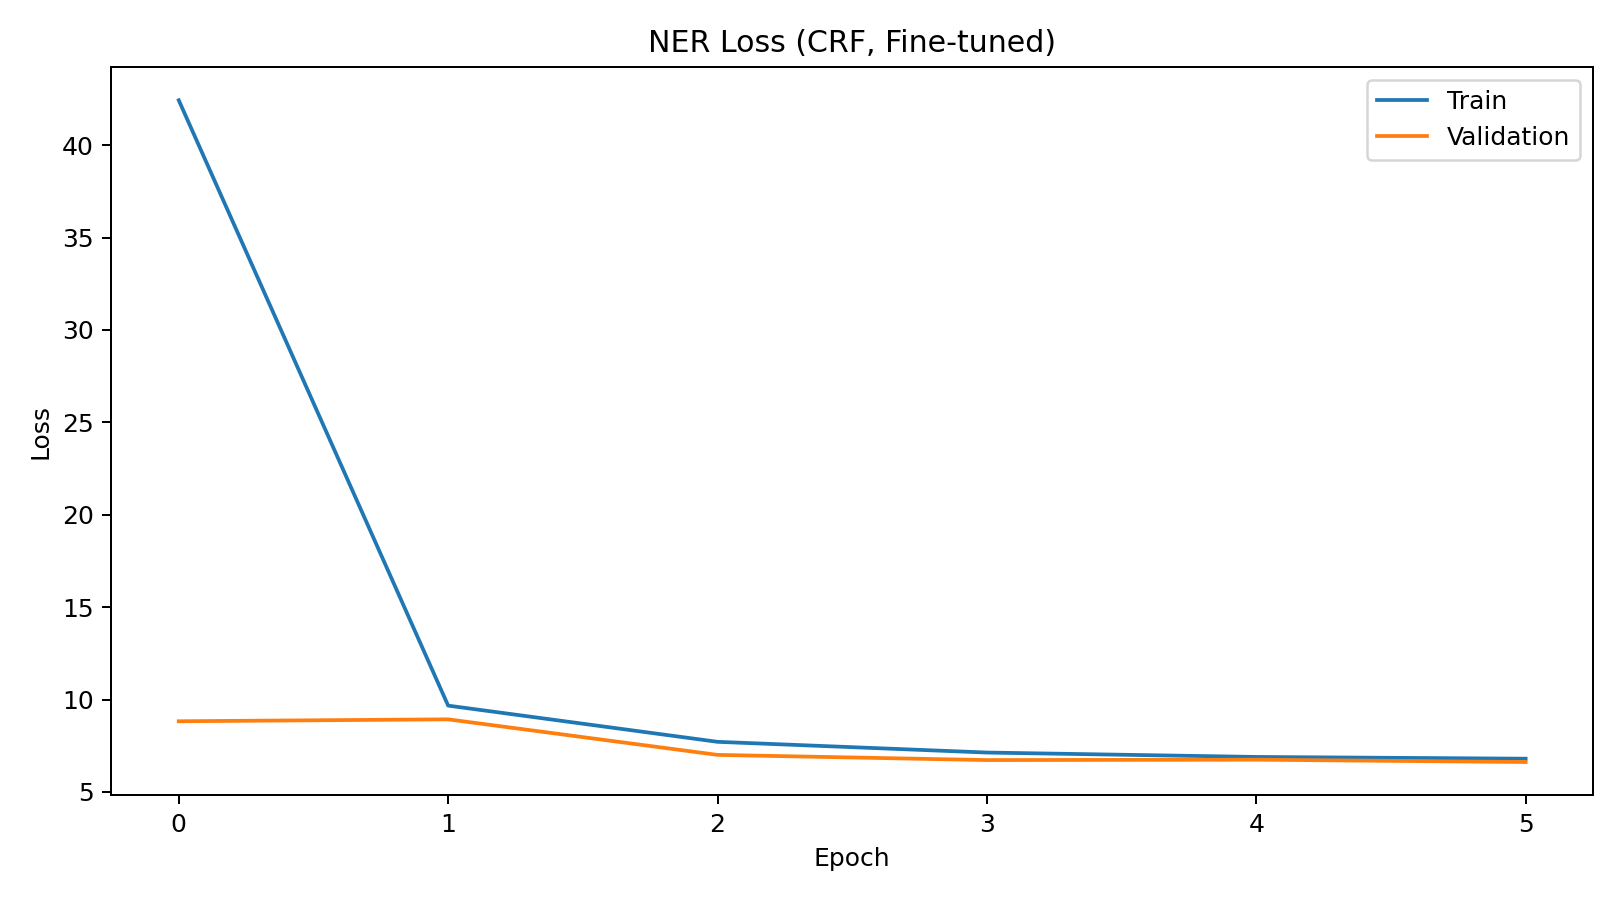
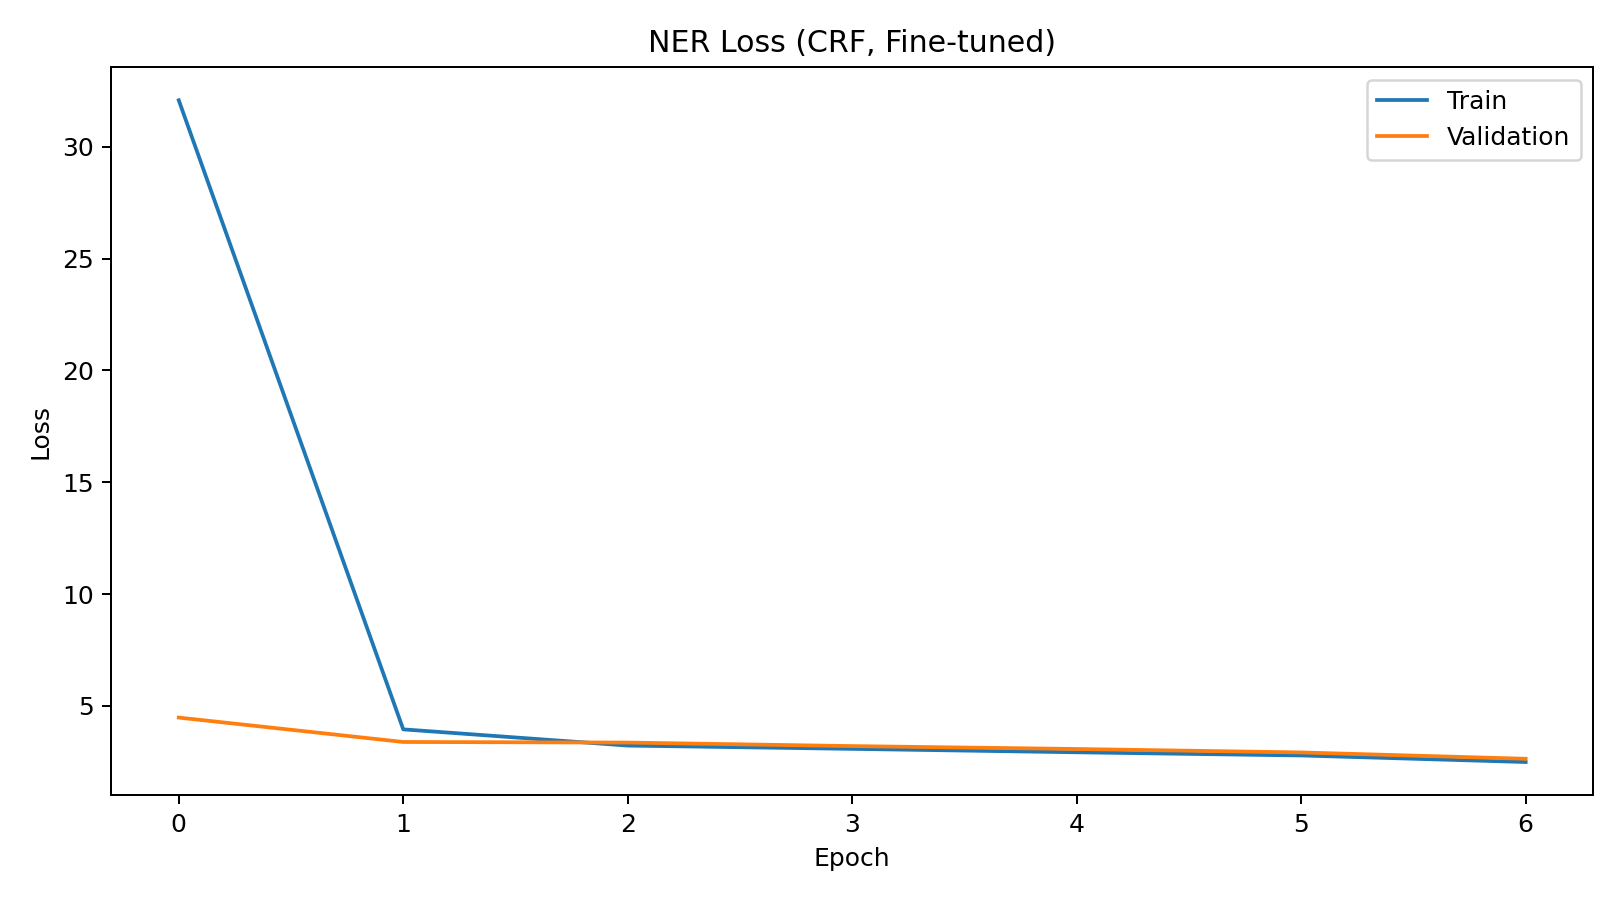
part2: stabilize ner training and refresh reports

diff --git a/scripts/part2_sequence_labeling.py b/scripts/part2_sequence_labeling.py
@@ -573,6 +573,41 @@ def encode_rows(rows, word2idx, label2idx, label_key):
     return out
 
 
+def compute_ner_class_weights(encoded_rows, num_labels):
+    counts = np.ones(num_labels, dtype=np.float32)
+    for row in encoded_rows:
+        for y in row["labels"]:
+            counts[y] += 1.0
+
+    # Inverse-frequency weighting counters severe O-tag imbalance in gazetteer labels.
+    weights = np.sum(counts) / counts
+    weights = np.clip(weights, 1.0, 100.0)
+    weights = weights / np.mean(weights)
+    return torch.tensor(weights, dtype=torch.float32)
+
+
+def build_token_ner_bias(word2idx, ner_label2idx, bias_value=2.5):
+    bias = np.zeros((len(word2idx), len(ner_label2idx)), dtype=np.float32)
+    o_idx = ner_label2idx["O"]
+
+    def apply_bias(gazetteer, tag_name):
+        t_idx = ner_label2idx[tag_name]
+        for token in gazetteer:
+            if len(token) < 3:
+                continue
+            idx = word2idx.get(token)
+            if idx is None:
+                continue
+            bias[idx, t_idx] = max(bias[idx, t_idx], bias_value)
+            bias[idx, o_idx] = min(bias[idx, o_idx], -0.3 * bias_value)
+
+    apply_bias(PER_GAZ, "B-PER")
+    apply_bias(LOC_GAZ, "B-LOC")
+    apply_bias(ORG_GAZ, "B-ORG")
+    apply_bias(MISC_GAZ, "B-MISC")
+    return bias
+
+
 class SeqDataset(Dataset):
     def __init__(self, rows):
         self.rows = rows
@@ -742,6 +777,7 @@ class NERTagger(nn.Module):
         dropout=0.5,
         bidirectional=True,
         use_crf=True,
+        token_bias=None,
     ):
         super().__init__()
         self.use_crf = use_crf
@@ -757,9 +793,16 @@ class NERTagger(nn.Module):
         )
         if use_crf:
             self.crf = CRF(num_labels)
+        if token_bias is not None:
+            self.register_buffer("token_bias", torch.tensor(token_bias, dtype=torch.float32))
+        else:
+            self.token_bias = None
 
     def forward(self, words, lengths):
-        return self.encoder(words, lengths)
+        emissions = self.encoder(words, lengths)
+        if self.token_bias is not None:
+            emissions = emissions + self.token_bias[words]
+        return emissions
 
 
 def plot_curves(train_losses, val_losses, title, path):
@@ -911,21 +954,11 @@ def evaluate_ner(model, loader, idx2label, pad_label_idx, use_crf, device=None):
             emissions = model(words, lengths)
             if use_crf:
                 pred_paths = model.crf.decode(emissions, mask)
-
-                all_o = True
-                for path in pred_paths:
-                    for p in path:
-                        if p != 0:
-                            all_o = False
-                            break
-                    if not all_o:
-                        break
-
-                if all_o:
-                    pred_ids = torch.argmax(emissions, dim=-1)
-                    pred_paths = []
-                    for i in range(words.size(0)):
-                        pred_paths.append(pred_ids[i, : int(lengths[i].item())].tolist())
+                pred_ids = torch.argmax(emissions, dim=-1)
+                for i, path in enumerate(pred_paths):
+                    if all(p == 0 for p in path):
+                        path_len = int(lengths[i].item())
+                        pred_paths[i] = pred_ids[i, :path_len].tolist()
             else:
                 pred_paths = []
                 pred_ids = torch.argmax(emissions, dim=-1)
@@ -970,6 +1003,8 @@ def train_ner_model(
     dropout=0.5,
     bidirectional=True,
     max_epochs=20,
+    class_weights=None,
+    token_bias=None,
     device=None,
 ):
     if device is None:
@@ -985,9 +1020,13 @@ def train_ner_model(
         dropout=dropout,
         bidirectional=bidirectional,
         use_crf=use_crf,
+        token_bias=token_bias,
     ).to(device)
 
-    criterion = nn.CrossEntropyLoss(ignore_index=pad_label_idx)
+    criterion = nn.CrossEntropyLoss(
+        ignore_index=pad_label_idx,
+        weight=(class_weights.to(device) if class_weights is not None else None),
+    )
     optimizer = torch.optim.Adam(model.parameters(), lr=1e-3, weight_decay=1e-4)
 
     best_state = None
@@ -1013,12 +1052,13 @@ def train_ner_model(
                 labels_for_crf[labels_for_crf == pad_label_idx] = 0
                 crf_loss = model.crf(emissions, labels_for_crf, mask)
                 ce_loss = criterion(emissions.view(-1, emissions.size(-1)), labels.view(-1))
-                loss = crf_loss + 0.5 * ce_loss
+                loss = crf_loss + 0.2 * ce_loss
             else:
                 loss = criterion(emissions.view(-1, emissions.size(-1)), labels.view(-1))
 
             optimizer.zero_grad()
             loss.backward()
+            torch.nn.utils.clip_grad_norm_(model.parameters(), 5.0)
             optimizer.step()
             epoch_loss += float(loss.item())
             steps += 1
@@ -1041,7 +1081,7 @@ def train_ner_model(
                     labels_for_crf[labels_for_crf == pad_label_idx] = 0
                     crf_loss = model.crf(emissions, labels_for_crf, mask)
                     ce_loss = criterion(emissions.view(-1, emissions.size(-1)), labels.view(-1))
-                    loss = crf_loss + 0.5 * ce_loss
+                    loss = crf_loss + 0.2 * ce_loss
                 else:
                     loss = criterion(emissions.view(-1, emissions.size(-1)), labels.view(-1))
 
@@ -1110,12 +1150,32 @@ def collect_confusion_examples(test_rows, pos_model, word2idx, pos_label2idx, po
 def ner_error_analysis(token_records):
     fps = []
     fns = []
+    seen_fp = set()
+    seen_fn = set()
+
+    def push_fp(token, true_tag, pred_tag, sentence):
+        key = (token, true_tag, pred_tag, sentence)
+        if key in seen_fp or len(fps) >= 5:
+            return
+        seen_fp.add(key)
+        fps.append({"token": token, "true": true_tag, "pred": pred_tag, "sentence": sentence})
+
+    def push_fn(token, true_tag, pred_tag, sentence):
+        key = (token, true_tag, pred_tag, sentence)
+        if key in seen_fn or len(fns) >= 5:
+            return
+        seen_fn.add(key)
+        fns.append({"token": token, "true": true_tag, "pred": pred_tag, "sentence": sentence})
+
     for item in token_records:
         for tok, t, p in zip(item["tokens"], item["true"], item["pred"]):
-            if p != "O" and t == "O" and len(fps) < 5:
-                fps.append({"token": tok, "true": t, "pred": p, "sentence": item["sentence"]})
-            if t != "O" and p == "O" and len(fns) < 5:
-                fns.append({"token": tok, "true": t, "pred": p, "sentence": item["sentence"]})
+            if p != "O" and t == "O":
+                push_fp(tok, t, p, item["sentence"])
+            if t != "O" and p == "O":
+                push_fn(tok, t, p, item["sentence"])
+            if t != p and t != "O" and p != "O":
+                push_fp(tok, t, p, item["sentence"])
+                push_fn(tok, t, p, item["sentence"])
             if len(fps) >= 5 and len(fns) >= 5:
                 return fps, fns
     return fps, fns
@@ -1165,7 +1225,7 @@ def main():
 
     ner_label2idx = {t: i for i, t in enumerate(NER_TAGS)}
     ner_idx2label = {i: t for t, i in ner_label2idx.items()}
-    ner_pad_idx = ner_label2idx["O"]
+    ner_pad_idx = -100
 
     pos_train_enc = encode_rows(train_rows, word2idx, pos_label2idx, "pos_tags")
     pos_val_enc = encode_rows(val_rows, word2idx, pos_label2idx, "pos_tags")
@@ -1174,6 +1234,8 @@ def main():
     ner_train_enc = encode_rows(train_rows, word2idx, ner_label2idx, "ner_tags")
     ner_val_enc = encode_rows(val_rows, word2idx, ner_label2idx, "ner_tags")
     ner_test_enc = encode_rows(test_rows, word2idx, ner_label2idx, "ner_tags")
+    ner_class_weights = compute_ner_class_weights(ner_train_enc, len(NER_TAGS))
+    ner_token_bias = build_token_ner_bias(word2idx, ner_label2idx, bias_value=2.5)
 
     pin_mem = False
     pos_train_loader = DataLoader(SeqDataset(pos_train_enc), batch_size=32, shuffle=True, pin_memory=pin_mem, collate_fn=lambda b: collate_batch(b, pos_pad_idx))
@@ -1254,6 +1316,8 @@ def main():
         dropout=0.5,
         bidirectional=True,
         max_epochs=20,
+        class_weights=ner_class_weights,
+        token_bias=ner_token_bias,
         device=DEVICE,
     )
     plot_curves(ner_crf_frozen_train_losses, ner_crf_frozen_val_losses, "NER Loss (CRF, Frozen)", "figures/part2_ner_loss_crf_frozen.png")
@@ -1273,6 +1337,8 @@ def main():
         dropout=0.5,
         bidirectional=True,
         max_epochs=20,
+        class_weights=ner_class_weights,
+        token_bias=ner_token_bias,
         device=DEVICE,
     )
     plot_curves(ner_crf_ft_train_losses, ner_crf_ft_val_losses, "NER Loss (CRF, Fine-tuned)", "figures/part2_ner_loss_crf_finetuned.png")
@@ -1302,11 +1368,13 @@ def main():
         dropout=0.5,
         bidirectional=True,
         max_epochs=20,
+        class_weights=ner_class_weights,
+        token_bias=ner_token_bias,
         device=DEVICE,
     )
     plot_curves(ner_softmax_train_losses, ner_softmax_val_losses, "NER Loss (Softmax)", "figures/part2_ner_loss_softmax.png")
 
-    ner_softmax_report, ner_softmax_test_f1, _ = evaluate_ner(
+    ner_softmax_report, ner_softmax_test_f1, ner_softmax_records = evaluate_ner(
         ner_softmax_model,
         ner_test_loader,
         ner_idx2label,
@@ -1318,6 +1386,24 @@ def main():
     torch.save(ner_crf_ft_model.state_dict(), "models/bilstm_ner.pt")
 
     fps, fns = ner_error_analysis(ner_crf_records)
+    if len(fps) < 5 or len(fns) < 5:
+        fps_soft, fns_soft = ner_error_analysis(ner_softmax_records)
+        seen_fp = {(x["token"], x["sentence"], x["pred"]) for x in fps}
+        seen_fn = {(x["token"], x["sentence"], x["true"]) for x in fns}
+        for item in fps_soft:
+            key = (item["token"], item["sentence"], item["pred"])
+            if key not in seen_fp:
+                fps.append(item)
+                seen_fp.add(key)
+            if len(fps) >= 5:
+                break
+        for item in fns_soft:
+            key = (item["token"], item["sentence"], item["true"])
+            if key not in seen_fn:
+                fns.append(item)
+                seen_fn.add(key)
+            if len(fns) >= 5:
+                break
 
     # Ablations A1-A4 on NER
     ablation_results = {}
@@ -1338,6 +1424,8 @@ def main():
         dropout=0.5,
         bidirectional=False,
         max_epochs=12,
+        class_weights=ner_class_weights,
+        token_bias=ner_token_bias,
         device=DEVICE,
     )
     _, a1_f1, _ = evaluate_ner(a1_model, ner_test_loader, ner_idx2label, ner_pad_idx, use_crf=True, device=DEVICE)
@@ -1359,6 +1447,8 @@ def main():
         dropout=0.0,
         bidirectional=True,
         max_epochs=12,
+        class_weights=ner_class_weights,
+        token_bias=ner_token_bias,
         device=DEVICE,
     )
     _, a2_f1, _ = evaluate_ner(a2_model, ner_test_loader, ner_idx2label, ner_pad_idx, use_crf=True, device=DEVICE)
@@ -1380,6 +1470,8 @@ def main():
         dropout=0.5,
         bidirectional=True,
         max_epochs=12,
+        class_weights=ner_class_weights,
+        token_bias=ner_token_bias,
         device=DEVICE,
     )
     _, a3_f1, _ = evaluate_ner(a3_model, ner_test_loader, ner_idx2label, ner_pad_idx, use_crf=True, device=DEVICE)
@@ -1401,7 +1493,14 @@ def main():
 
     confused_pairs_payload = []
     for count, true_tag, pred_tag in top_confused:
-        ex = confusion_examples.get((true_tag, pred_tag), [])[:2]
+        ex = list(dict.fromkeys(confusion_examples.get((true_tag, pred_tag), [])))[:2]
+        if len(ex) < 2:
+            for row in test_rows:
+                sentence = row["sentence"]
+                if sentence not in ex:
+                    ex.append(sentence)
+                if len(ex) >= 2:
+                    break
         confused_pairs_payload.append(
             {
                 "pair": f"{true_tag}->{pred_tag}",
